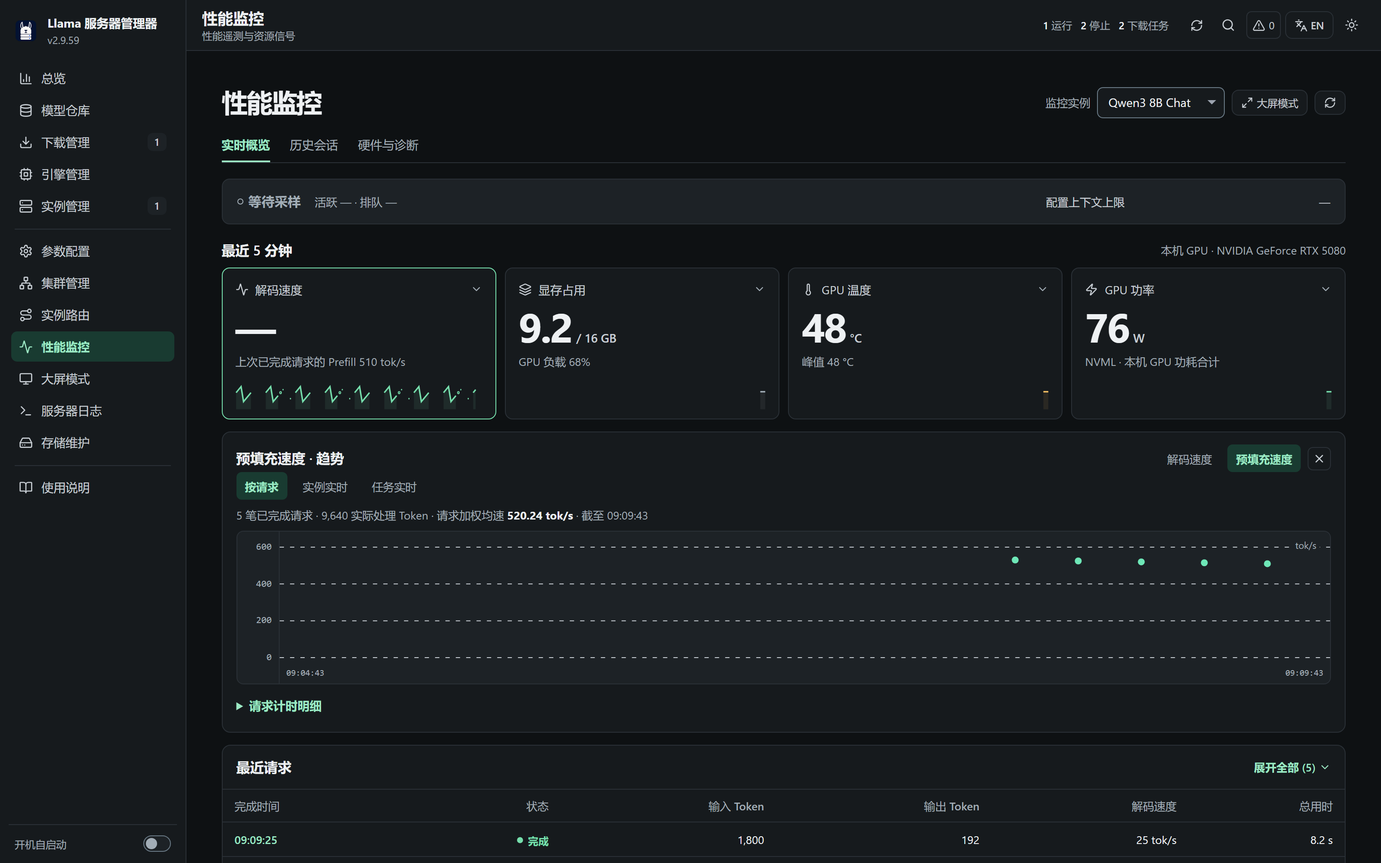
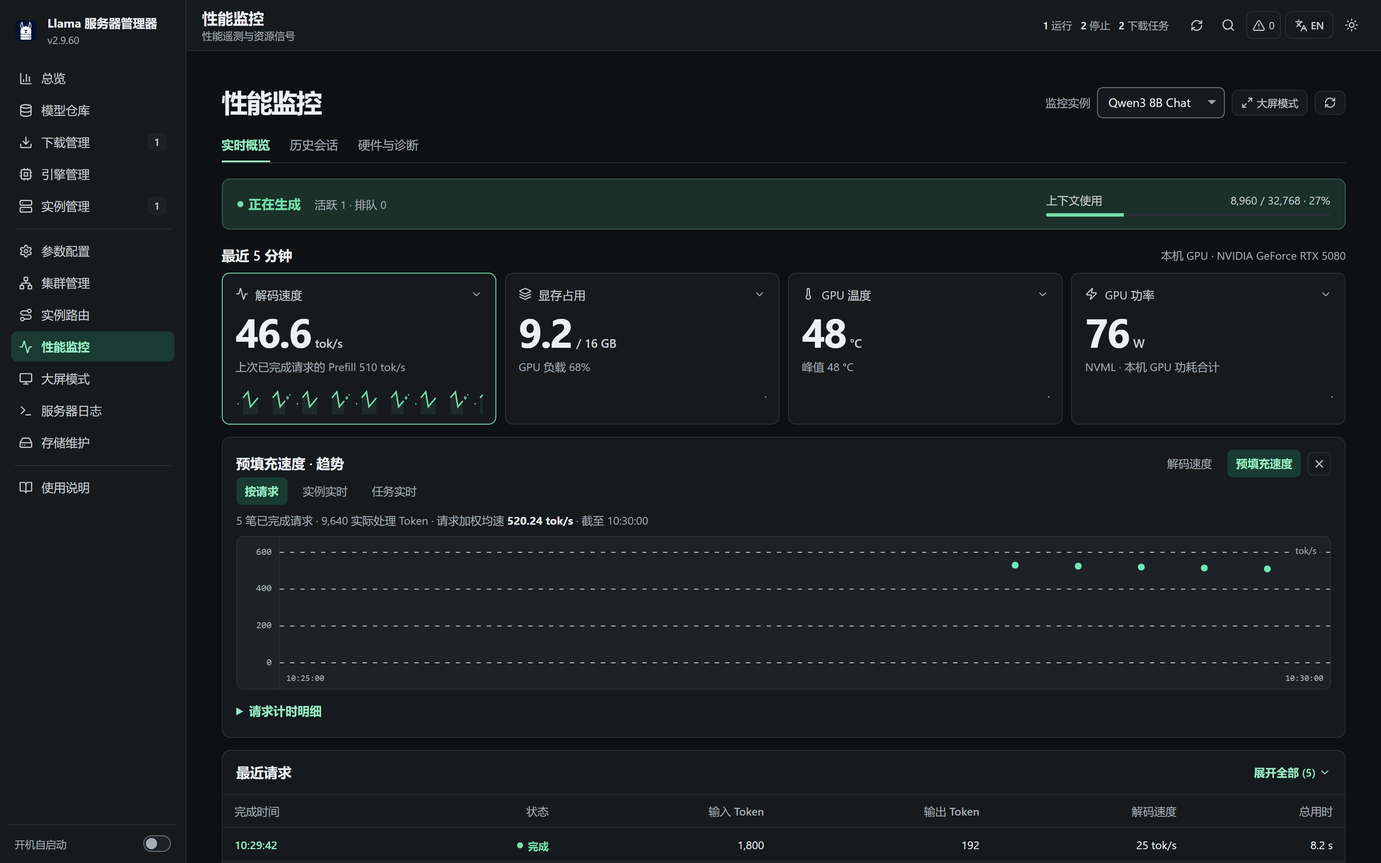
Prepare v2.9.60 with updated release notes, README and illustrated guide

diff --git a/browser-tests/tauriMock.ts b/browser-tests/tauriMock.ts
@@ -48,10 +48,13 @@ const QWEN_PROJECTOR_PATH = 'C:\\browser-test\\models\\mmproj-Qwen-BF16.gguf'
 const LLAVA_PROJECTOR_PATH = 'C:\\browser-test\\models\\mmproj-Llava-BF16.gguf'
 const DOCS_MODEL_ROOT = 'C:\\AI\\Models'
 const DOCS_ENGINE_ROOT = 'C:\\AI\\Engines'
-const DOCS_CHAT_MODEL_PATH = `${DOCS_MODEL_ROOT}\\Qwen3-8B-Q4_K_M.gguf`
-const DOCS_VISION_MODEL_PATH = `${DOCS_MODEL_ROOT}\\Qwen3-VL-7B-Q5_K_M.gguf`
-const DOCS_EMBEDDING_MODEL_PATH = `${DOCS_MODEL_ROOT}\\Embedding-Mini-Q8_0.gguf`
-const DOCS_PROJECTOR_PATH = `${DOCS_MODEL_ROOT}\\mmproj-Qwen3-VL-F16.gguf`
+const nestedGuideInventory = IS_DOCS_SCENARIO && new URLSearchParams(location.search).get('tree') === 'branches'
+const guideModelPath = (folder: string, name: string) =>
+  nestedGuideInventory ? `${DOCS_MODEL_ROOT}\\${folder}\\${name}` : `${DOCS_MODEL_ROOT}\\${name}`
+const DOCS_CHAT_MODEL_PATH = guideModelPath('Qwen\\Qwen3-8B', 'Qwen3-8B-Q4_K_M.gguf')
+const DOCS_VISION_MODEL_PATH = guideModelPath('Qwen\\Qwen3-VL-7B', 'Qwen3-VL-7B-Q5_K_M.gguf')
+const DOCS_EMBEDDING_MODEL_PATH = guideModelPath('Embeddings', 'Embedding-Mini-Q8_0.gguf')
+const DOCS_PROJECTOR_PATH = guideModelPath('Qwen\\Qwen3-VL-7B', 'mmproj-Qwen3-VL-F16.gguf')
 
 const clone = <T>(value: T): T => JSON.parse(JSON.stringify(value)) as T
 

diff --git a/GUIDE.md b/GUIDE.md
@@ -1,6 +1,6 @@
 # Llama Server Manager 使用说明 / User Guide
 
-> v2.9.59 · Windows / macOS / Linux
+> v2.9.60 · Windows / macOS / Linux
 
 本说明介绍 llama.cpp 与 Windows Gufo 的模型、引擎、实例、路由、监控、后台任务和存储维护。应用内“使用说明”随安装包离线提供本文件和图片；更新应用后才会获得新版内置手册。截图使用隔离的演示数据。
 
@@ -120,17 +120,13 @@ Dashboard is the launch-time control surface. It shows system CPU, memory, and a
 
 ### 主要区域 / Main Areas
 
-- 顶部指标：运行实例、已登记模型与引擎、活动下载。
-- 系统健康：CPU、内存、GPU 和显存的实时压力。
-- 实例控制：直接查看状态并启动或停止实例。
-- 关注中心：引擎缺失、模型为空、实例异常或下载失败等可操作提示。
-- 最近活动：请求、下载和日志摘要。
+- 资源总览显示 CPU、内存、GPU 和显存读数，以及运行实例、传输和排队数量。
+- “下一步建议”列出当前可处理的问题。实例列表可按状态、模型或引擎筛选，并直接启动或停止实例。
+- “今日路由概览”按 UTC 展示请求结果。底部的“资源统计”和“近期下载”汇总本地资源与传输进展。
 
-- Top metrics for running instances, registered models and engines, and active downloads.
-- System health for CPU, memory, GPU, and VRAM pressure.
-- Instance controls for status and start or stop actions.
-- Actionable attention items for missing resources, unhealthy instances, or failed downloads.
-- Recent request, download, and log activity.
+- Resource Overview shows CPU, RAM, GPU and VRAM readings with running instance, transfer and queue counts.
+- Next Steps lists actionable issues. Filter the instance list by state, model or engine and start or stop an instance from its row.
+- Today's routing summary uses UTC. Resource counts and recent downloads appear together at the bottom.
 
 如果总览提示“未登记运行引擎”或“模型仓库为空”，先按提示按钮跳转并完成资源扫描，不要直接在实例页反复启动。
 
@@ -163,6 +159,8 @@ Model Repository recursively scans local folders for GGUF models, shards, `mmpro
 创建实例和配置参数时，“从模型仓库选择”使用同一棵目录树。搜索可以展开匹配文件所在的目录，清除搜索会恢复原来的折叠状态。点击可选文件即可填入当前字段。
 
 The file picker in Instance Management and Configuration uses the same repository tree. Searching expands matching branches. Clearing the search restores the previous folder layout. Choose a file to fill the current field.
+
+![浅色主题中的模型文件选择器、目录分支及当前选项 / Model picker in light mode with branches and the current selection](public/docs/guide/16-model-picker.png)
 
 ### 管理操作 / Management
 
@@ -260,14 +258,14 @@ An instance combines a model, engine, port, and independent configuration into a
 
 1. 点击“创建实例”。
 2. 输入实例名称。
-3. 从模型树选择主模型，并确认需要的 `mmproj`。
+3. 点击“从模型仓库选择”，在目录树中选择主模型。应用会尝试匹配同目录投影器，可在参数配置中核对或更换 `mmproj`。
 4. 选择引擎；留空时使用默认引擎。
 5. 输入端口并等待端口可用性检查。
 6. 创建后进入参数配置检查详细参数。
 
 1. Select Create Instance.
 2. Enter an instance name.
-3. Choose the main model and any required `mmproj`.
+3. Open the repository picker and choose the main model. The app looks for a matching projector in the same folder. Review or change the `mmproj` in Configuration.
 4. Select an engine or use the default.
 5. Enter a port and wait for availability validation.
 6. Open Configuration to review detailed parameters.
@@ -275,18 +273,24 @@ An instance combines a model, engine, port, and independent configuration into a
 ### 运行控制 / Runtime Controls
 
 - 启动前会生成命令、检查端口和必要路径。
-- 状态依次可能为已停止、启动中、运行中或错误。
+- 名称下方的实心“运行中”标签标记正在运行的进程。健康检查结果单独显示，整行底色表示当前操作对象。启动或停止期间，标签会显示相应进度。
+- 在参数配置中点击“返回实例列表”，可回到之前选中的行。搜索、状态和引擎筛选会随列表恢复。若刚修改的端口或引擎使该行被隐藏，应用会清除冲突的筛选条件。
 - “测试连接”使用实例鉴权设置检查健康或模型接口。
 - “打开 API 页面”会把通配监听地址转换为本机可访问地址。
 - 实例管理的“生成命令”按组展示实际启动参数。已保存的引擎能力缺失或过期时，会先重新检测该引擎；无法完整检测时显示错误，不把保守模式的最小命令当作完整预览。继承的默认值不会被强行写入命令。
 - 可重命名、排序或删除实例；删除前会原生确认。
 
 - Startup generates the command and validates ports and required paths.
-- Status may be stopped, starting, running, or error.
+- A filled Running label below the name identifies a live process. Its health check appears separately, and the row background marks the current selection. The label also shows when a start or stop is in progress.
+- Choose Back to instances in Configuration to reveal the selected row again. Search, status and engine filters are restored. A filter that would hide the row after an edit is cleared.
 - Test Connection checks health or model endpoints using the instance authentication settings.
 - Open API maps wildcard bind hosts to a local browser address.
 - In Instances, Command Preview groups actual launch arguments. If engine capability evidence is missing or stale, the manager probes the selected engine first. Incomplete detection produces an error rather than a misleading minimal command. Inherited defaults are not added to the command.
 - Instances can be renamed, reordered, or deleted with confirmation.
+
+桌面、CLI 和 MCP 使用同一套引擎选择和启动参数规则。如果启动过程中又修改了配置，新值会保留到下次启动。桌面重新连接后台服务时，会按进程身份恢复实例状态和日志连接。
+
+The desktop, CLI and MCP share engine selection and launch argument handling. An edit made during startup is retained for the next launch. When reconnecting to the background runtime, the desktop matches each process before reattaching its status and logs.
 
 ![启动、健康检查、性能和日志诊断流程 / Start, health, performance, and log diagnosis](public/docs/guide/flow-02-start-and-diagnose.png)
 
@@ -468,19 +472,21 @@ Instance Routing exposes native OpenAI and Anthropic formats on one listener, ro
 
 1. 先启动至少一个后端实例。
 2. 在「路由设置」展开「监听与 API 入口」设置主机和端口。在「模型调度」选择调度策略，按需调整流量治理、健康检查和浏览器来源。
-3. 在「路由与实例」添加公开模型名和目标实例。相同模型名可配置多个优先级层，点击模型名可调整权重与目标并发。保存后使用「测试路由」演练当前会命中的实例。
+3. 在「路由与实例」添加公开模型名和目标实例。要修改已有规则，在路由表中点击对应行的对外模型名，在「编辑路由」中更换目标、调整优先级或选择「删除路由」。同名规则按行编辑，点击页首「保存」使变更生效。「测试路由」可演练当前会命中的实例。
 4. 在「API Key」添加或搜索调用方，可按启用状态筛选。列表每页显示 8 个 Key。点击名称编辑权限、请求频率、并发和 Token 额度。「保存此 Key」仅提交本次密钥修改。
 5. 新增或轮换密钥时，请在保存前复制原文。临时显示持续 10 秒，保存后只保留不可逆摘要。可在「使用统计」查看调用量。
 6. 保存并启动路由，然后用 `/ready`、`/v1/models`、`/slots?model=<公开模型名>`、OpenAI 或 Anthropic 客户端验证。
 
 1. Start at least one backend instance.
 2. In Router settings, open Listener & API endpoints to set the host and port. Use Model scheduling for the scheduling policy and expand the traffic, health or browser origin sections as needed.
-3. In Routes & instances, add a public model ID and target instance. Select a model name to edit priority, weight and target concurrency. Save the configuration and use Test Route to see which instance would serve it.
+3. In Routes & instances, add a public model ID and target. To change an existing rule, select the public model name in its row. In Edit route, change the target or priority, or choose Delete route. Rules sharing a name are edited individually. Select Save in the header to apply the change, then Test route to preview target selection.
 4. In API Key, search by name or filter by status. Each page shows eight keys. Select a caller to edit its permissions, rate limits, concurrency or token quotas. Save this key applies only that credential’s changes.
 5. Copy newly created or rotated credentials before saving. Temporary reveal lasts ten seconds. Only a non-recoverable digest is stored. Usage statistics shows recorded traffic.
 6. Start routing and validate `/ready`, `/v1/models`, `/slots?model=<public-model>`, and the native OpenAI or Anthropic client path.
 
 ![实例、别名和统一 API 的请求路径 / Request path from instances and aliases to the unified API](public/docs/guide/flow-03-route-requests.png)
+
+![API Key 分页列表与单个调用方编辑器 / API Key workspace with pagination and the selected caller](public/docs/guide/15-routing-api-keys.png)
 
 ### API 格式与 Claude Code / API Formats and Claude Code
 
@@ -610,6 +616,10 @@ AMD 指标优先使用 ADLX，NVIDIA 使用 NVML，无法取得 GPU 指标时会
 
 AMD signals prefer ADLX and NVIDIA uses NVML; the app falls back to system metrics when GPU telemetry is unavailable. Stale live instance metrics are cleared when no instance is selected.
 
+升级至 v2.9.60 后，应用会在首次打开时补齐遥测库的 Prefill 字段，原有请求和采样继续可查。早期记录缺少的计算耗时及缺采时段在图中保留为空。
+
+On first use, v2.9.60 upgrades the telemetry database for Prefill measurements. Existing requests and samples remain available. Older records without a measured duration and intervals without samples appear as gaps.
+
 ### Prefill / Decode 双指标 / Dual Throughput
 
 实时概览 → 解码速度 → 预填充速度提供三种口径。
@@ -620,7 +630,7 @@ AMD signals prefer ADLX and NVIDIA uses NVML; the app falls back to system metri
 
 In Live overview, open Decode speed, then Prefill speed. **By request** plots completed engine work, weighted by processed tokens and phase duration across the five-minute window. Busy windows group more than 300 records by second. **Live instance** uses consecutive engine counters. llama.cpp uses the change in prefill compute seconds. Gufo counts new tokens per chunk and uses elapsed polling time across all requests, normally about one second. **Live tasks** uses consecutive log or slot observations. A ≈ marks a duration inferred from a rounded completion rate. A new process, broken sample chain or counter reset establishes a new baseline.
 
-「硬件与诊断」中的详细趋势用短柱显示 Prefill 输入速度，用折线显示 Decode 生成速度，孤立样本显示为点。两图纵轴独立，与请求活动带共用时间轴；并行处理和生成可以同时出现。大屏优先展示实例健康检查和当前生成吞吐，下方只保留 Decode 趋势及活动带。大屏折线取 15 秒窗口内连续活跃样本的均值，不跨越空闲、缺数或部分上报区间；顶部读数仍是最新观测。
+「硬件与诊断」的推理详情用短柱表示任务 Prefill，用折线表示 Decode。孤立样本显示为点，两图与请求活动带共用时间轴。大屏的主图显示最近五分钟的汇总吞吐，旁边列出本机 GPU 读数。
 
 近期速度来自连续任务日志或 `/slots` 计数采样，目标窗口约 3 秒，页面注明实际观察窗口和来源；缓存复用 Token 不计入 Prefill。日志的阶段平均只显示在“阶段平均”或请求统计中，`/metrics` 平均值不补成实时曲线。短请求可能没有连续实时样本，完成后仍可查看 Prefill 平均速度和耗时。
 
@@ -628,7 +638,7 @@ In Live overview, open Decode speed, then Prefill speed. **By request** plots co
 
 无需新增模型参数。保留引擎 INFO 进度日志，或启用 slots API，即可提供观测来源。后台运行时持续采集；重新打开窗口使用后台快照，进程/会话重建则重新建立计数基线，历史日志重放不会产生实时速度。槽位查询有超时限制、不会重叠：活跃时约每秒一次，空闲时约每 5 秒一次；GPU 指标和 SQLite 采样保持原有周期。
 
-Detailed diagnostics plot task Prefill as bars and Decode as line segments; isolated readings remain visible. Both share a time axis with a request activity strip that distinguishes concurrent phases, confirmed idle, and missing observations (hatching). Hollow points are reported subtotals, not complete rates. The wall emphasizes instance health and current Decode speed. Its trend averages consecutive active observations within 15-second windows, without bridging idle, missing or partial readings. Rates use recent log or slot observations; cached tokens and phase averages do not fill these charts.
+In Hardware & diagnostics, inference details plot task Prefill as bars and Decode as a line. Isolated observations appear as points. The two series share a timeline with the request activity strip. The wall’s main chart shows five minutes of fleet throughput beside the host GPU readings.
 
 Sampling, stale, unavailable, partial coverage, and observed zero are distinct states. Missing historical fields remain gaps. Background snapshots survive GUI reconnection; restarted processes establish fresh counter baselines, and replayed logs cannot manufacture live rates. Slot requests are bounded and serialized (about one second while active, five seconds while idle); GPU and SQLite sampling retain their existing cadence. No additional model parameter is required; INFO progress logs or the slots API provide observations.
 

diff --git a/README.md b/README.md
@@ -46,9 +46,9 @@ Use the [Download Center](https://download.cnzone.net/) for the recommended plat
 
 ## 界面预览 / Interface Preview
 
-截图使用隔离的演示数据展示当前界面。实际模型支持、参数能力和性能以所选引擎及运行结果为准。
+截图来自使用隔离演示数据的 v2.9.60 前端。使用顶栏的主题按钮切换明暗外观。侧栏“实例管理”和“下载管理”分别显示正在运行的实例数和正在传输的文件数。
 
-Screenshots use isolated demonstration data. Model support, parameter availability, and performance depend on the selected engine and actual workload.
+The screenshots show v2.9.60 with isolated demonstration data. Switch between light and dark themes in the header. The sidebar shows running instances beside Instances and active file transfers beside Downloads.
 
 ### 系统总览 / Dashboard
 
@@ -60,15 +60,21 @@ System resources, instances, models, engines, downloads, and actionable issues i
 
 ### 模型与下载 / Models and Downloads
 
-递归扫描 GGUF 目录，识别模型、分片和投影器；支持 ModelScope 与 HuggingFace 队列下载、断点续传、并发和限速策略。
+模型仓库扫描本地 GGUF 目录，按树形层级展示模型、分片和投影器。创建实例和配置参数时也可在这棵树中搜索文件，并查看量化、类型和大小。下载管理支持 ModelScope 与 Hugging Face 的队列下载、续传、并发和限速。
 
-Scan GGUF models, shards, and projectors; manage ModelScope and HuggingFace queues with resume, concurrency, and bandwidth policies.
+Browse scanned GGUF models, shards and projectors in the repository tree. The same tree lets you search files and inspect quantization, type and size when creating or configuring an instance. Downloads manages ModelScope and Hugging Face queues, resume, concurrency and bandwidth limits.
 
 ![模型仓库 / Model Repository](public/docs/guide/02-model-repository.png)
 
 ![下载管理 / Download Manager](public/docs/guide/03-download-manager.png)
 
 ### 实例配置 / Instance Configuration
+
+实例名称下的“运行中”标签标记正在运行的服务，整行底色标记当前操作对象。从参数配置点击“返回实例列表”，可回到该实例及其原有筛选位置。
+
+The Running label beneath an instance name identifies an active service. The row highlight identifies the selected instance. Back to instances restores that selection and the applicable filters after configuration.
+
+![实例列表中的运行状态与当前选择 / Instance status and selection](public/docs/guide/05-instance-manager.png)
 
 为每个 llama.cpp 实例独立选择模型、引擎和端口，通过参数搜索、场景预设和分级校验调整结构化选项，并依据所选 `llama-server --help` 进行运行时能力协商。当前上游稳定版 v1.0.0 基线跟踪 266 个参数条目。
 
@@ -92,7 +98,17 @@ Expose running instances through one production OpenAI / Anthropic-compatible ga
 
 ![实例路由 / Instance Routing](public/docs/guide/08-instance-routing.png)
 
+在“路由与实例”的路由表中点击对应行的对外模型名，即可更换目标或删除这一条路由。“API Key”页按调用方搜索、按状态筛选，每页显示八项。选择名称后可单独保存该 Key 的权限、限流和 Token 额度。
+
+In Routes & instances, select the public model name in the relevant row to change its target or delete that rule. The API Key tab supports caller search, status filters and eight keys per page. Select a name to edit and save its permissions, rate limits and token quotas.
+
+![API Key 分页列表和单个调用方的编辑区域 / Paged API key list and caller editor](public/docs/guide/15-routing-api-keys.png)
+
 ### 性能监控 / Performance Monitoring
+
+“实时概览”显示最近五分钟的趋势。展开“解码速度”并选择“预填充速度”，即可查看已完成请求的加权均速、实例实时速率和任务实时速率。大屏汇总服务健康与吞吐，驱动可提供时显示本机 GPU 温度和功率。
+
+Live overview shows the last five minutes. Open Decode speed and select Prefill speed for a weighted rate across completed requests, live instance counters or live task readings. The monitoring wall shows fleet health and throughput alongside host GPU temperature and power when the driver supplies them.
 
 查看 CPU、内存、GPU、显存、历史会话和诊断建议；生成模型分别显示 Prefill 输入速度、Decode 输出 tokens/s 与 slots，Embedding 输入 tokens/s、向量项/s，Reranker 输入 tokens/s、文档项/s。任务日志覆盖直连请求和应用内流量，代理请求统计补充 HTTP 请求数、耗时和失败率；未取得的来源会明确显示为不可用。
 
@@ -100,18 +116,20 @@ Inspect resources, history, and diagnostics with workload-aware metrics: separat
 
 ![性能监控 / Performance Monitoring](public/docs/guide/09-performance.png)
 
+![监控大屏的五分钟吞吐与本机 GPU 读数 / Fleet throughput and host GPU readings on the monitoring wall](public/docs/guide/10-monitoring-wall.png)
+
 ## 功能地图 / Feature Map
 
 | 页面 | 主要能力 | Page | Main capability |
 |---|---|---|---|
-| 系统总览 | 系统健康、实例控制、关注中心、近期活动 | Dashboard | Health, instance controls, attention items, recent activity |
+| 系统总览 | 资源总览、下一步建议、实例控制、今日路由与近期下载 | Dashboard | Resources, next steps, instance controls, today's routing and recent downloads |
 | 模型仓库 | GGUF 递归扫描、元信息、分片与投影器识别 | Models | Recursive inventory, metadata, shards, and projectors |
 | 下载管理 | 双源浏览、队列、暂停恢复、并发、限速 | Downloads | Dual-source browsing, queues, resume, concurrency, throttling |
 | 引擎管理 | 多版本扫描、后端识别、默认引擎 | Engines | Multi-version scanning, backend detection, defaults |
 | 实例管理 | 多实例、端口检查、启停、连接测试、命令预览 | Instances | Multi-instance lifecycle, port checks, health, command preview |
 | 参数配置 | 搜索、预设、校验、鉴权、缓存和推测解码 | Configuration | Search, presets, validation, auth, cache, speculative decoding |
 | 集群管理 | Worker 发现、本地与 SSH 启动、RPC 配置 | Cluster | Worker discovery, local or SSH launch, RPC configuration |
-| 实例路由 | 双协议 API、严格路由、调度、熔断、限流、可观测性 | Routing | Dual-protocol API, strict routing, scheduling, resilience, observability |
+| 实例路由 | 双协议 API、路由表、调用方密钥、调度与流量治理 | Routing | Dual-protocol API, route table, caller keys, scheduling and traffic controls |
 | 路由使用统计 | 请求诊断、Token 用量、Key 预算与强制额度、CSV 导出 | Router Usage | Request diagnostics, tokens, key budgets, hard quotas, CSV export |
 | 性能监控 | 生成与向量吞吐、双来源遥测、历史基线和诊断 | Performance | Generation and vector throughput, dual-source telemetry, baselines, diagnostics |
 | 监控大屏 | 服务健康、吞吐、压力、下载和告警 | Monitoring Wall | Health, throughput, pressure, downloads, alerts |

diff --git a/docs/release-notes/v2.9.60.md b/docs/release-notes/v2.9.60.md
@@ -1,0 +1,27 @@
+# v2.9.60 — 统一桌面界面、路由密钥管理与性能监控
+
+模型仓库、实例列表、参数配置和路由页采用统一的明暗主题。调用方较多时，可以在独立的 API Key 页管理单个密钥。性能监控和大屏增加了五分钟趋势，并在驱动提供读数时显示 GPU 温度与功率。
+
+## 实例、模型与配置
+
+- 实例名称下方显示运行状态，整行底色标记当前操作的实例。侧栏的下载管理和实例管理分别显示正在传输的文件数和运行中的实例数。
+- 从参数配置返回时，列表会恢复所选实例、搜索与筛选，并将选中行滚动到可见位置。实例端口等变更导致筛选不再匹配时，自动清除冲突的条件。
+- 创建实例、llama.cpp 和 Gufo 的文件选择窗口共用仓库目录树，可按名称或量化搜索，并查看层级、文件类型和大小。配置工具栏统一了控件尺寸，总览底部卡片对齐。
+
+## 实例路由与 API Key
+
+- 路由页分为路由与实例、API Key、使用统计、路由设置。点击路由表某一行的对外模型名即可更换绑定实例、调整优先级或移除该条规则。
+- API Key 支持按调用方搜索、按状态筛选和分页，每页八项。选择一项即可编辑权限、请求频率、并发、预算和额度。单个 Key 的保存与删除独立提交，窄窗口编辑后可回到原列表位置。
+
+## 性能监控与大屏
+
+- 实时概览集中显示最近五分钟的吞吐、显存、GPU 温度和功率。点击读数可查看趋势。大屏汇总实例健康和生成或向量吞吐，排队、下载、日志与告警可在运行详情中展开。
+- Prefill 可按已完成请求、实例实时和任务实时查看。短请求完成后也能看到预填充速度。llama.cpp 的实例速率使用引擎累计计算时间，Gufo 使用处理 Token 增量和两次采样之间的实际时间。
+- 已有遥测数据库在首次打开时从结构版本 9 升至 10，保留历史采样与请求记录。旧记录没有采集的预填充时间继续留空。
+
+## 启动、恢复与依赖
+
+- 桌面、CLI 和 MCP 共用引擎选择和启动参数构造。后台恢复按进程身份和状态快照顺序重新连接日志，避免迟到的停止事件覆盖新进程。启动期间所做的配置修改保留给下一次启动。
+- Rust URL 解析依赖升级到 2.5.9，修复 RUSTSEC-2026-0592 公告所述的进程栈溢出问题。
+
+[完整代码差异](https://github.com/jerrydong1988/llama-server-manager/compare/v2.9.59...v2.9.60)
